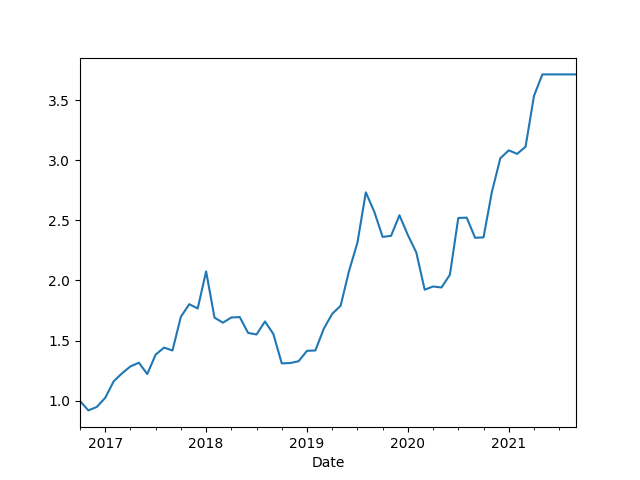
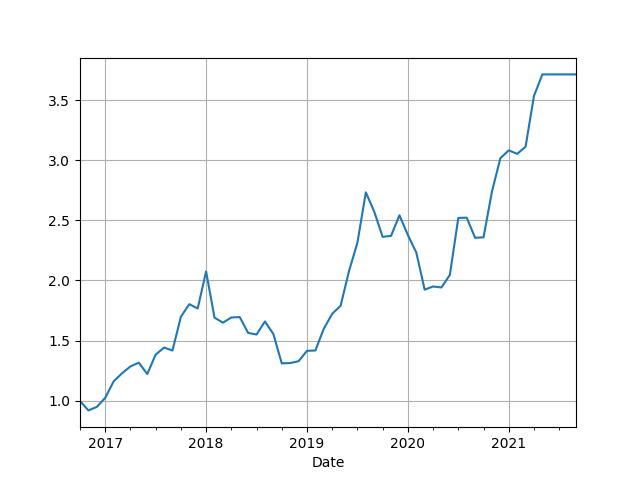
update screenshot

diff --git a/main.py b/main.py
@@ -111,7 +111,7 @@ class BackTest:
         s.loc['Max. Underwater Duration'] = max_time_under_water
         s.loc['Total Underwater Duration'] = total_time_under_water
         self.AUM.plot()
-        plt.set_
+        plt.grid(True)
         plt.show()
         return s
 
